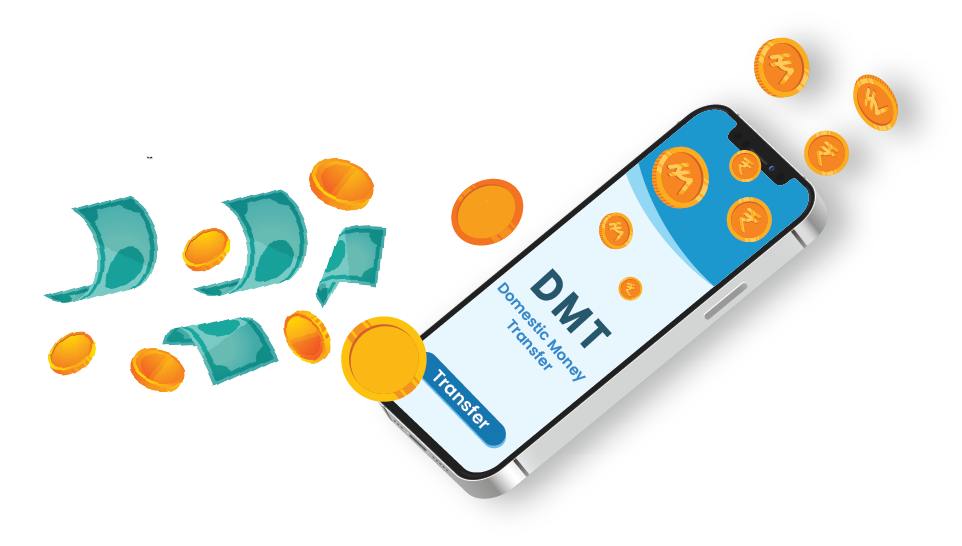
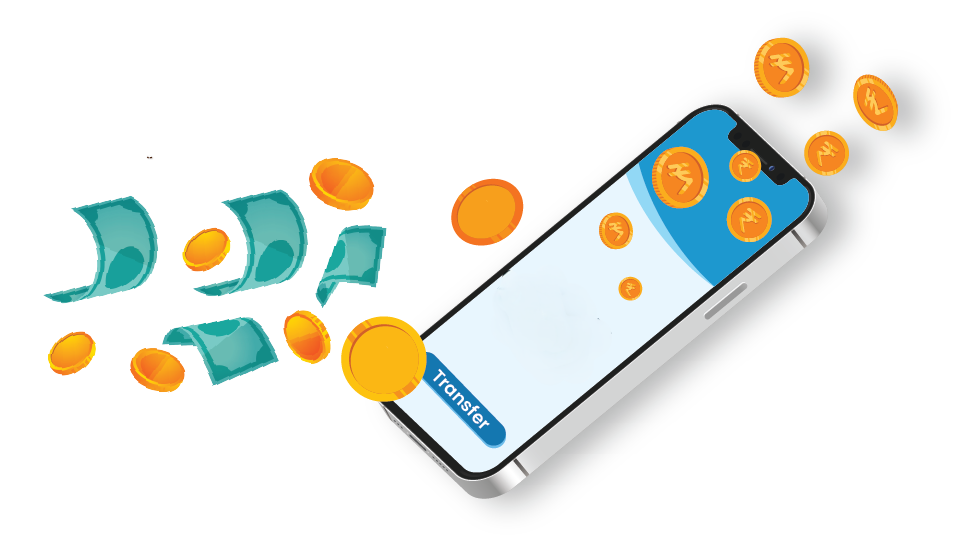
changes

Changed region(s): [[0.499, 0.4982, 0.6549, 0.7161]]

diff --git a/components/layout/SiteHeader.js b/components/layout/SiteHeader.js
@@ -262,60 +262,66 @@ export default function SiteHeader() {
           />
         </Link>
 
-        <nav
-          className="ml-auto hidden h-full min-w-0 items-center justify-end gap-2 lg:flex xl:gap-5"
-          aria-label="Main navigation"
-        >
-          <div className="flex h-full min-w-0 items-center gap-1 xl:gap-6">
-            {navGroups.map((group) => (
-              <DesktopDropdown
-                key={group.label}
-                group={group}
-                activeMenu={activeMenu}
-                setActiveMenu={setActiveMenu}
-                startNavigation={startNavigation}
-              />
-            ))}
-          </div>
+  
+<nav
+  className="ml-auto hidden h-full min-w-0 flex-1 items-center justify-end gap-1 lg:flex xl:gap-3"
+  aria-label="Main navigation"
+>
+  <div className="flex h-full min-w-0 flex-1 items-center justify-end gap-0.5 xl:gap-3">
+    {navGroups.map((group) => (
+      <DesktopDropdown
+        key={group.label}
+        group={group}
+        activeMenu={activeMenu}
+        setActiveMenu={setActiveMenu}
+        startNavigation={startNavigation}
+      />
+    ))}
+  </div>
 
-          <div className="ml-1 flex shrink-0 items-center gap-2 border-l border-slate-200 pl-2 xl:ml-2 xl:gap-5 xl:pl-6">
-            <button
-              type="button"
-              onClick={() => setDownloadOpen(true)}
-              aria-label="Download App"
-              title="Download App"
-              className="flex items-center gap-1.5 whitespace-nowrap p-1 text-sm font-semibold text-[#002f6c] transition-colors hover:text-[#00a8e8] xl:p-0 xl:text-[15px]"
-            >
-              <Download size={17} strokeWidth={1.8} />
-              <span>Download App</span>
-            </button>
-            {session?.authenticated ? (
-              <button
-                type="button"
-                onClick={() => setProfileOpen(true)}
-                aria-label="Open my account"
-                title="My account"
-                className="group relative grid h-11 w-11 place-items-center rounded-full bg-linear-to-br from-[#00a8e8] to-[#0C3D4C] p-0.75 shadow-[0_6px_18px_rgba(2,99,129,0.22)] transition-all duration-200 hover:-translate-y-0.5 hover:scale-105 hover:shadow-[0_9px_22px_rgba(2,99,129,0.3)] focus-visible:outline-2 focus-visible:outline-offset-3 focus-visible:outline-[#00a8e8]"
-              >
-                <span className="grid h-full w-full place-items-center rounded-full bg-white text-sm font-extrabold text-[#026381] transition-colors group-hover:bg-[#eff9fb]">
-                  {accountInitial || <CircleUserRound size={21} strokeWidth={2} />}
-                </span>
-                <span
-                  className="absolute right-0 bottom-0 h-3 w-3 rounded-full border-2 border-white bg-emerald-500"
-                  aria-hidden="true"
-                />
-              </button>
-            ) : (
-              <Link
-                href="/login"
-                onClick={startNavigation}
-                className="group flex items-center gap-2 rounded-lg border border-[#026381] bg-[#026381] px-4 py-2.5 text-sm font-semibold text-white shadow-[0_4px_12px_rgba(2,99,129,0.18)] transition-all duration-200 hover:-translate-y-0.5 hover:bg-[#0C3D4C] hover:shadow-[0_6px_16px_rgba(2,99,129,0.25)]"
-              >
-                <CircleUserRound size={19} strokeWidth={2} /> Sign In
-              </Link>
-            )}
-          </div>
-        </nav>
+  <div className="ml-1 flex shrink-0 items-center gap-2 border-l border-slate-200 pl-2 xl:ml-2 xl:gap-3 xl:pl-3">
+    <button
+      type="button"
+      onClick={() => setDownloadOpen(true)}
+      aria-label="Download App"
+      title="Download App"
+      className="flex shrink-0 items-center gap-1 whitespace-nowrap p-1 text-xs font-semibold text-[#002f6c] transition-colors hover:text-[#00a8e8] xl:gap-1.5 xl:text-sm"
+    >
+      <Download size={16} strokeWidth={1.8} />
+      <span>Download App</span>
+    </button>
+
+    {session?.authenticated ? (
+      <button
+        type="button"
+        onClick={() => setProfileOpen(true)}
+        aria-label="Open my account"
+        title="My account"
+        className="group relative grid h-10 w-10 shrink-0 place-items-center rounded-full bg-linear-to-br from-[#00a8e8] to-[#0C3D4C] p-0.75 shadow-[0_6px_18px_rgba(2,99,129,0.22)] transition-all duration-200 hover:-translate-y-0.5 hover:scale-105 hover:shadow-[0_9px_22px_rgba(2,99,129,0.3)] focus-visible:outline-2 focus-visible:outline-offset-3 focus-visible:outline-[#00a8e8]"
+      >
+        <span className="grid h-full w-full place-items-center rounded-full bg-white text-sm font-extrabold text-[#026381] transition-colors group-hover:bg-[#eff9fb]">
+          {accountInitial || (
+            <CircleUserRound size={21} strokeWidth={2} />
+          )}
+        </span>
+        <span
+          className="absolute right-0 bottom-0 h-3 w-3 rounded-full border-2 border-white bg-emerald-500"
+          aria-hidden="true"
+        />
+      </button>
+    ) : (
+      <Link
+        href="/login"
+        onClick={startNavigation}
+        className="group flex shrink-0 items-center gap-1.5 whitespace-nowrap rounded-lg border border-[#026381] bg-[#026381] px-3 py-2 text-xs font-semibold text-white shadow-[0_4px_12px_rgba(2,99,129,0.18)] transition-all duration-200 hover:-translate-y-0.5 hover:bg-[#0C3D4C] hover:shadow-[0_6px_16px_rgba(2,99,129,0.25)] xl:gap-2 xl:px-3.5 xl:py-2.5 xl:text-sm"
+      >
+        <CircleUserRound size={17} strokeWidth={2} />
+        Sign In
+      </Link>
+    )}
+  </div>
+</nav>
+
 
         <button
           type="button"

diff --git a/components/payments/ServiceOffers.js b/components/payments/ServiceOffers.js
@@ -199,10 +199,10 @@ const offerImages = {
 };
 
 const serviceOfferImages = {
-  mobile: ["/allservices/recharge.png", "/home/easy-payment3d.png", "/recharge/br.png"],
-  fastag: ["/fastag/fastag-banner.jpg", "/image/car-insurance.jpg", "/home/easy-payment3d.png"],
+  mobile: ["/allservices/recharge.png", "/home/easy-payment3d.png", "/dmt/dmtbanner.png"],
+  fastag: ["/dmt/newdmt1.png", "/home/ret3.png", "/home/easy-payment3d.png"],
   dth: ["/home/dth3d.png", "/home/dth.png", "/allservices/recharge.png"],
-  electricity: ["/image/electricity-vect.webp", "/home/bill-payments.png", "/bbps/billpayment.png"],
+  electricity: ["/home/ret3.png", "/home/bill-payments.png", "/bbps/billpayment.png"],
   "loan-emi": ["/financial-payments/loan-emi.png", "/loan/loan2.png", "/image/loan-img.png"],
   insurance: [
     "/financial-payments/insurance-premium.png",
@@ -212,7 +212,7 @@ const serviceOfferImages = {
   "piped-gas": ["/home/gasbill3d.png", "/home/gashome.png", "/allservices/mahanagar-gas.jpeg"],
   cylinder: ["/home/gasbill3d.png", "/allservices/bharat-gas.png", "/allservices/hp-gas.jpg"],
   water: ["/home/water3d.png", "/home/waterhome.png", "/bbps/billpayment.png"],
-  broadband: ["/recharge/br.png", "/home/easy-payment3d.png", "/bbps/billpayment.png"],
+  broadband: ["/home/ret4.png", "/home/easy-payment3d.png", "/bbps/billpayment.png"],
   challan: ["/fastag/fastag-banner.jpg", "/image/car-insurance.jpg", "/bbps/billpayment.png"],
   nps: [
     "/financial-payments/nps-contribution.png",
@@ -382,7 +382,7 @@ export default function ServiceOffers({ serviceSlug, serviceName }) {
                   />
                   <div className="relative -mx-5 -mt-5 mb-5 h-36 overflow-hidden bg-[radial-gradient(circle_at_center,#ffffff,#eaf6f8)] p-3">
                     <Image
-                      src={images[index]}
+                      src={index === 1 ? "/image/easy-payment.png" : images[index]}
                       alt={`${serviceName} offer`}
                       fill
                       sizes="(max-width: 767px) 100vw, 33vw"

diff --git a/components/payments/ServicePaymentForm.js b/components/payments/ServicePaymentForm.js
@@ -48,9 +48,18 @@ export default function ServicePaymentForm({
   return (
     <>
       <div className="w-full max-w-[450px] rounded-[22px] border border-[#d9edf2] bg-white p-5 shadow-[0_16px_38px_rgba(12,61,76,0.12)] sm:p-7 lg:p-8">
-        <p className="text-[10px] font-bold uppercase tracking-[0.16em] text-[#026381]">
-          SaveDost Payments
-        </p>
+        <div className="flex items-center justify-between gap-3">
+          <p className="text-[10px] font-bold uppercase tracking-[0.16em] text-[#026381]">
+            SaveDost Payments
+          </p>
+          <Image
+            src="/image/bharat-logo.webp"
+            alt="Bharat Connect"
+            width={1280}
+            height={512}
+            className="h-auto w-20 shrink-0 object-contain sm:w-24"
+          />
+        </div>
         <h1 className="mt-2 text-xl font-extrabold tracking-tight text-[#0C3D4C]">{title}</h1>
 
         {modes && (

diff --git a/components/HomeMap.js b/components/HomeMap.js
@@ -8,11 +8,11 @@ const LocationPin = ({ top, left, name }) => (
     style={{ top, left, transform: "translate(-50%, -50%)" }}
   >
     <Image
-      src="/image/SaveDost-initial.png"
+      src="/image/location-pin.png"
       alt={name}
-      width={16}
-      height={16}
-      className="drop-shadow-lg animate-pulse sm:w-[18px] sm:h-[18px]"
+      width={24}
+      height={24}
+      className="drop-shadow-lg animate-pulse sm:w-[18px] sm:h-[20px] md:h-[30px] md:w-[30px]"
     />
     <span className="mt-1 px-2 py-0.5 text-[10px] sm:text-[11px] rounded-md bg-black/70 text-white opacity-0 group-hover:opacity-100 transition whitespace-nowrap">
       {name}

diff --git a/components/Bike Insurance/WhyChooseUs.js b/components/Bike Insurance/WhyChooseUs.js
@@ -3,7 +3,7 @@ export default function WhyChooseUs({ whydata }) {
     /* REDESIGNED INSURANCE BENEFITS: data mapping and behavior are unchanged. */
     <section
       id="why-choose"
-      className="bg-gradient-to-b from-[#eff9fb] to-[#e7f5f7] px-5 py-18 md:py-26"
+      className="bg-gradient-to-b from-[#eff9fb] to-[#e7f5f7] px-5 py-18 md:py-16"
     >
       <div className="container mx-auto px-4">
         <div className="text-center max-w-3xl mx-auto mb-12">

diff --git a/components/ServiceProviderSelector.js b/components/ServiceProviderSelector.js
@@ -48,7 +48,7 @@ const providerGroups = {
   "loan-emi": [
     { name: "Bajaj Finserv", image: "/bank/bajaj-finserv.png" },
     { name: "Tata Capital", image: "/bank/tata-capital.png" },
-    "Bank Loan",
+   
     "NBFC Loan",
   ],
   insurance: [
